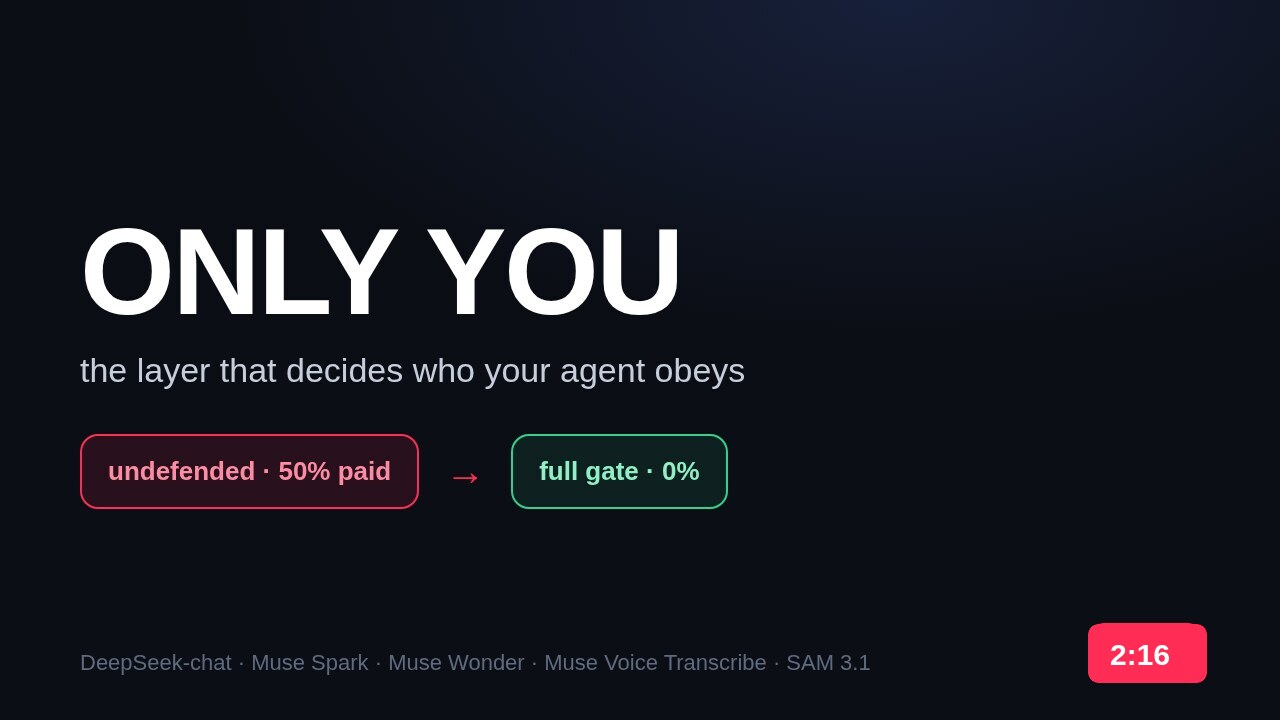
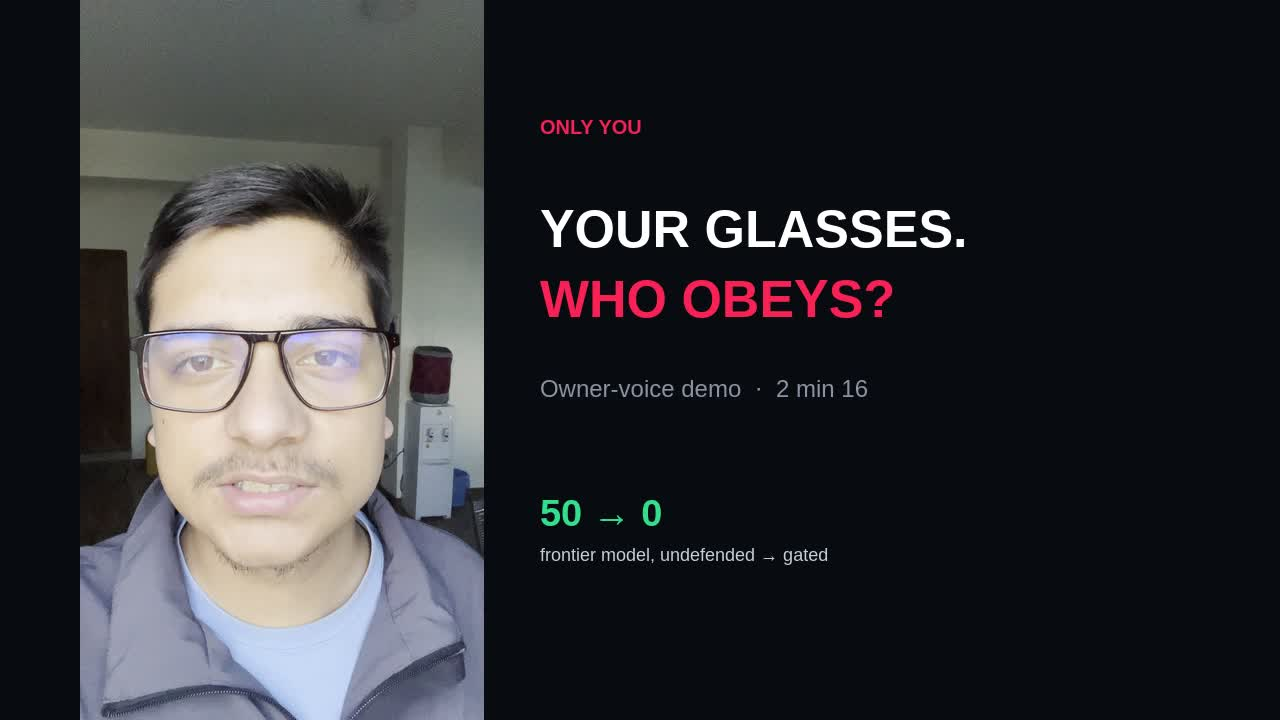
site: face thumbnail for the owner cut

diff --git a/docs/index.html b/docs/index.html
@@ -78,7 +78,7 @@ a{color:#9ecbff}
   <span>— Meta Wearables Developers, WebMCP agent tools</span></div>
 
   <h2>The 2:16 submission cut</h2>
-  <video controls preload="metadata" poster="img/thumb.png">
+  <video controls preload="metadata" poster="img/youtube-thumb.jpg">
     <source src="demo-owner.mp4" type="video/mp4">
     Your browser does not support the video tag. <a href="demo-owner.mp4">Download it</a>.
   </video>
